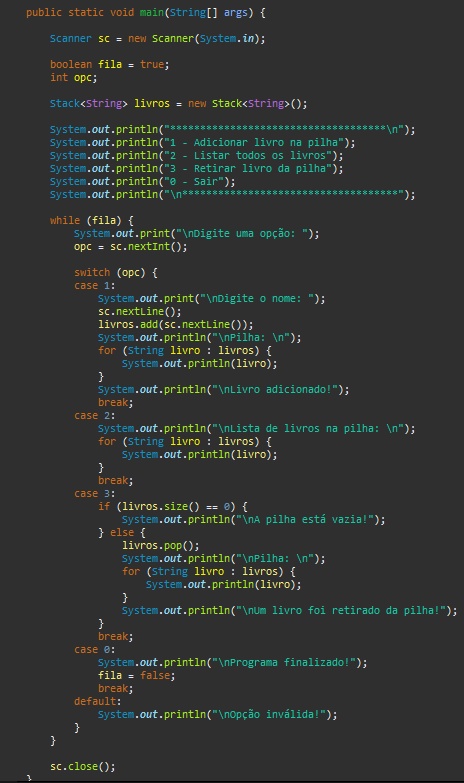
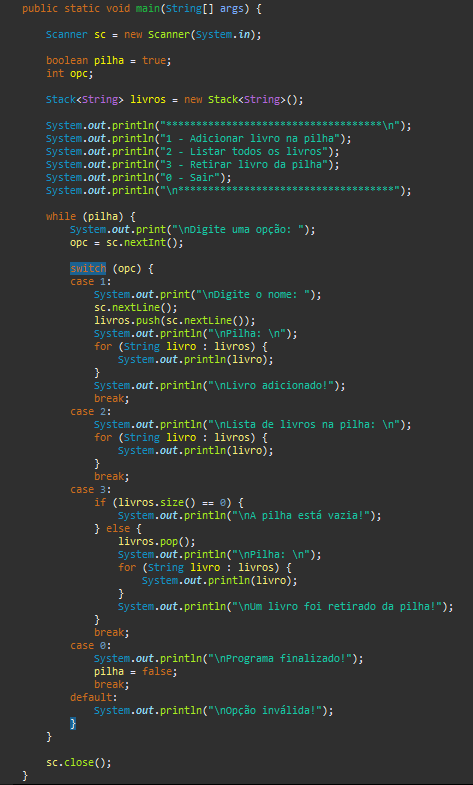
Atualização do método add para push e renomeação de variável

Changed region(s): [[0.0302, 0.0, 0.9957, 1.0], [0.0302, 0.9808, 0.0905, 1.0]]

diff --git a/EstruturaDados/AtividadeDoisStack.java b/EstruturaDados/AtividadeDoisStack.java
@@ -9,7 +9,7 @@ public class AtividadeDoisStack {
 		
 		Scanner sc = new Scanner(System.in);
 		
-		boolean fila = true;
+		boolean pilha = true;
 		int opc;
 		
 		Stack<String> livros = new Stack<String>();
@@ -21,7 +21,7 @@ public class AtividadeDoisStack {
 		System.out.println("0 - Sair");
 		System.out.println("\n************************************");
 		
-		while (fila) {
+		while (pilha) {
 			System.out.print("\nDigite uma opção: ");
 			opc = sc.nextInt();
 			
@@ -29,7 +29,7 @@ public class AtividadeDoisStack {
 			case 1:
 				System.out.print("\nDigite o nome: ");
 				sc.nextLine();
-				livros.add(sc.nextLine());
+				livros.push(sc.nextLine());
 				System.out.println("\nPilha: \n");
 				for (String livro : livros) {
 					System.out.println(livro);
@@ -56,7 +56,7 @@ public class AtividadeDoisStack {
 				break;
 			case 0:
 				System.out.println("\nPrograma finalizado!");
-				fila = false;
+				pilha = false;
 				break;
 			default:
 				System.out.println("\nOpção inválida!");
